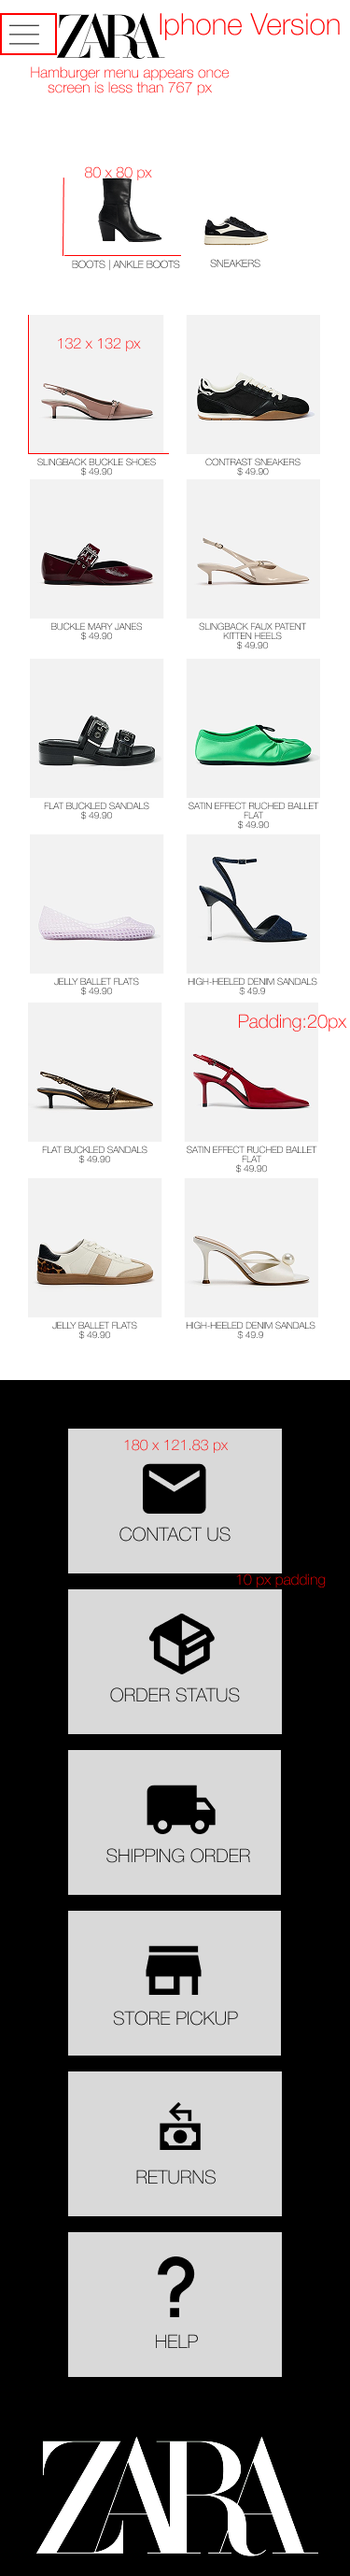
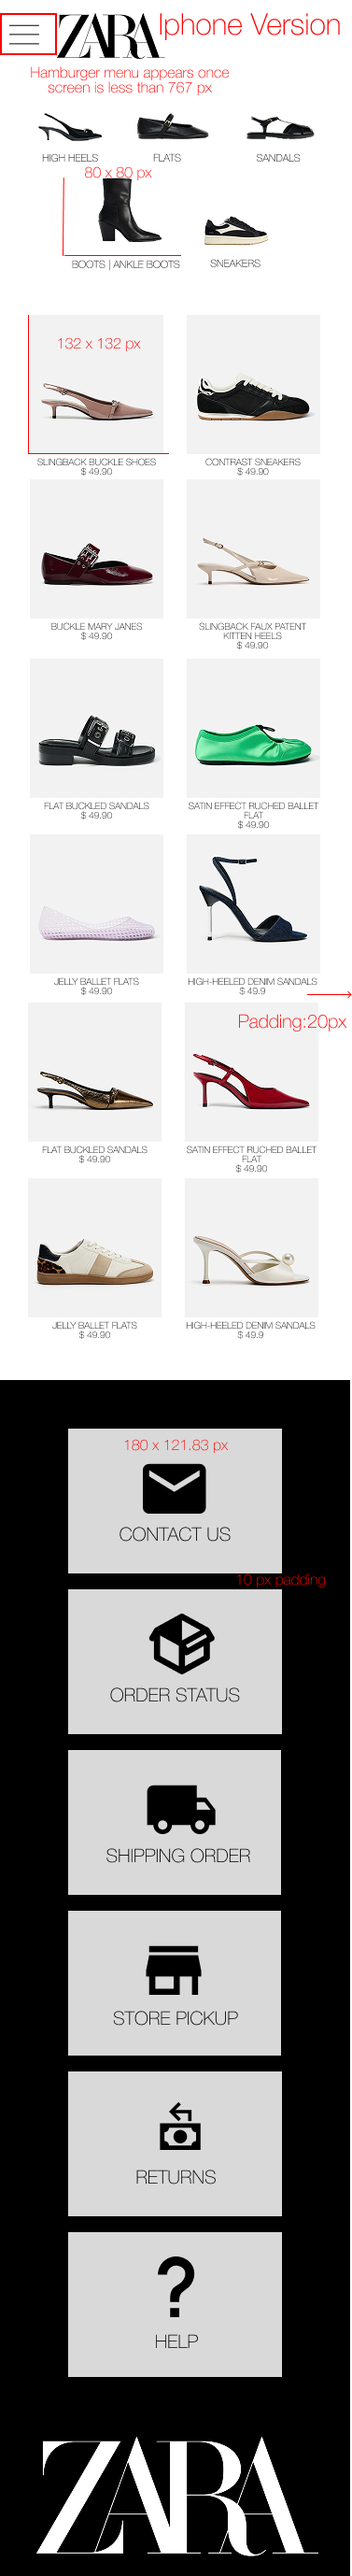
updates to portfolio

diff --git a/index.html b/index.html
@@ -3,8 +3,17 @@
 <head>
     <meta charset="UTF-8">
     <meta name="viewport" content="width=device-width, initial-scale=1.0">
-    <title>Hand-in</title>
+    <title>Zara Shoes Redesign</title>
     <style>
+        .credit {
+        position: absolute;
+        top: 10px;
+        left: 10px;
+        color: grey;
+        font-size: 20px;
+        font-family: Arial, sans-serif;
+        }
+
         body {
             font-family: "Helvetica Neue Thin", Arial, sans-serif;
             margin: 0;
@@ -89,7 +98,7 @@
         .design-inspiration {
             display: flex;
             justify-content: center;
-            align-items: center;
+            align-items: top;
             flex-wrap: wrap;
             gap: 10px;
         }
@@ -98,6 +107,23 @@
             max-width: 32%; /* Ensure images take equal width in a row */
             height: auto;
         }
+        .spacer {
+        height: 50px; /* Adjust the height as needed */
+        }
+
+        .ipad-design {
+            display: flex;
+            justify-content: center;
+            align-items: top;
+            flex-wrap: wrap;
+            gap: 10px;
+        }
+
+        .ipad-design img {
+            max-width: auto; /* Ensure images take equal width in a row */
+            height: auto;
+        }
+
 
 
         @media (max-width: 600px) {
@@ -118,12 +144,17 @@
 </head>
 <body>
     <div class="custom-button">
-        <a href="redesign.html"><u>ZARA SHOES RE-DESIGN</u></a>
+        <a href="redesign.html"><u>SEE THE RE-DESIGN</u></a>
     </div>
     
+    <div class="credit">Designed and coded by Ruchi Ukhade</div>
+
     <div class="container">
         <h1>Responsive Redesign:</h1>
         <h1>Zara Women’s Shoes “<a href="https://www.zara.com/us/en/woman-shoes-l1251.html" target="_blank">View All</a>” Webpage</h1>
+        <h3>A redesign of a Zara webpage with considerations to user preference and responsiveness of the webpage.</h3>
+
+        <div class="spacer"></div>
         
         <div class="heading">
             <div class="icon">
@@ -139,6 +170,18 @@
         </div>
     </div>
 
+
+    <div class="container next-topic">
+        <div class="heading">
+            <div class="icon">
+                <img src="bookmark.png" alt="bookmark icon">
+            </div>
+            <h2>ACCESSIBILITY</h2>
+        </div>
+        <p><b>Evaluating the accessibility of Zara's "Women's Shoes - View All" webpage using WAVE (Web Accessibility Evaluation Tool) guidelines reveals several areas of concern:</p></b>
+            <p>Alternative Text for Images: Many product images lack descriptive alternative text, making it difficult for screen readers to convey visual content to users with visual impairments.</li>
+            <p>Form Labels: Some interactive elements, such as filters and buttons, are missing proper labels, leading to confusion for users relying on assistive technologies.</li>
+    
     <div class="container next-topic">
         <div class="heading">
             <div class="icon">
@@ -151,6 +194,14 @@
             <img src="Inspo2.png" alt="FootLocker shoes">
             <img src="Inspo3.png" alt="Gucci shoes">
         </div>
+
+    <div class="container next-topic">
+         <div class="heading">
+            <div class="icon">
+                  <img src="bookmark.png" alt="bookmark icon">
+             </div>
+              <h2>VISUAL DESIGN GUIDE</h2>
+        </div>
         <div class="usability">
             <img src="VisDesignGuide.png" alt="Visual Design Guide">
         </div>
@@ -161,7 +212,7 @@
             <div class="icon">
                 <img src="bookmark.png" alt="bookmark icon">
             </div>
-            <h2>RE-DESIGN</h2>
+            <h2>SIZE RESPONSIVE MOCK-UPS</h2>
         </div>
 
         </div>
@@ -169,13 +220,8 @@
             <img src="Desktop.png" alt="Destop version">
         </div>
 
-        </div>
-        <div class="usability">
+        <div class="ipad-design">
             <img src="iPad.png" alt="Ipad version">
-        </div>
-
-        </div>
-        <div class="usability">
             <img src="iPhone.png" alt="Iphone version">
         </div>
 

diff --git a/redesign.html b/redesign.html
@@ -5,6 +5,14 @@
     <meta name="viewport" content="width=device-width, initial-scale=1.0">
     <title>Zara Shoes Redesign</title>
     <style>
+        .credit {
+        position: absolute;
+        top: 10px;
+        left: 10px;
+        color: grey;
+        font-size: 20px;
+        font-family: Arial, sans-serif;
+        }
         body {
             font-family: "Helvetica Neue Thin", Arial, sans-serif;
             font-size: 20px;
@@ -17,6 +25,28 @@
             align-items: center;
             padding: 20px;
             border-bottom: 1px solid #ccc;
+        }
+        .custom-button {
+            position: absolute;
+            top: 20px; /* Adjust as needed */
+            right: 20px; /* Adjust as needed a */
+        }
+
+        .custom-button a {
+            display: inline-block;
+            padding: 10px 20px;
+            font-size: 16px;
+            font-weight: bold;
+            color: black;
+            background-color: white;
+            border: 2px solid black;
+            text-decoration: none;
+            transition: all 0.3s ease-in-out;
+        }
+
+        .custom-button a:hover {
+            background-color: black;
+            color: white;
         }
         .menu-logo {
             display: flex;
@@ -180,6 +210,12 @@
     </style>
 </head>
 <body>
+    <div class="custom-button">
+        <a href="index.html"><u>BACK</u></a>
+    </div>
+    
+    <div class="credit">Designed and coded by Ruchi Ukhade</div>
+    <br></br>
     <header>
         <div class="menu-logo">
             <div class="menu-icon" onclick="toggleMenu()">
